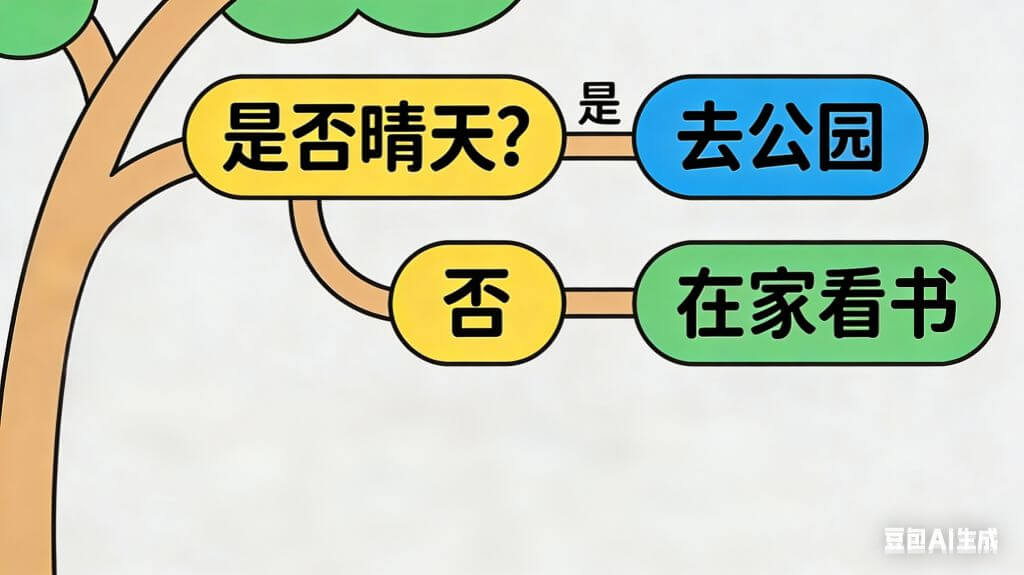
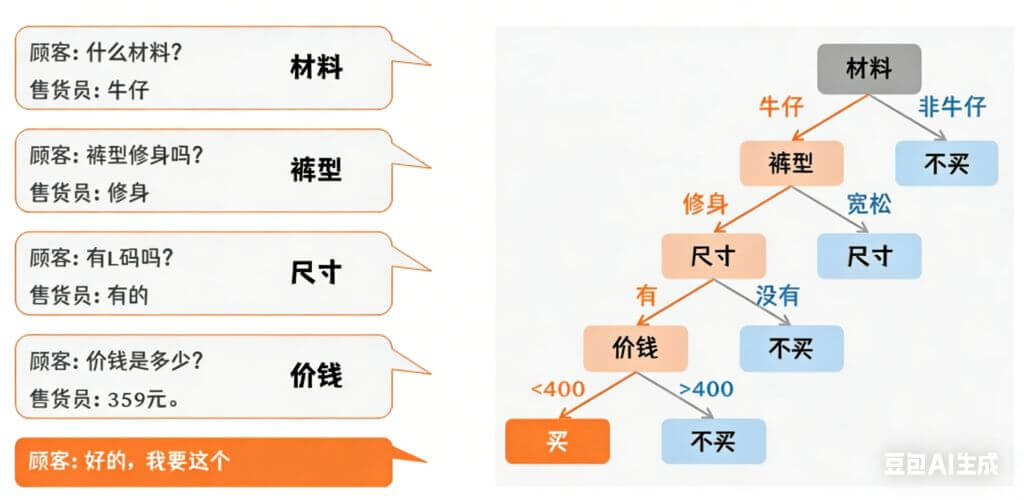
feat: 完善协同过滤算法

diff --git a/content/posts/search-advertising-recommendation/index.md b/content/posts/search-advertising-recommendation/index.md
@@ -18,7 +18,8 @@ categories:
 
 # 传统模型阶段 (2012 年前)
 ## 逻辑回归 LR（Logistic Regression）
-我们有特征 $x^(i)_j$，建立
+
+我们有特征 $x^{(i)}_j$，建立
 
 $$
 \hat{y} = \sigma(W x + b)
@@ -26,10 +27,11 @@ $$
 
 使用二分类交叉熵作为损失函数
 $$
-L = - \frac{1}{N} \sum_{i=1}{N} y_i log(\hat{y}) + (1 - y_i) log(1 - \hat{y_i})
+L = - \frac{1}{N} \sum_{i=1}^{N} y_i log(\hat{y}) + (1 - y_i) log(1 - \hat{y_i})
 $$
 
 ## FM（Factorization Machine）因子分解机
+
 在真实场景中，很多特征之间是有相关性的（比如 “男性 + 篮球鞋”），FM 在传统逻辑回归的基础上添加了**二阶交叉特征**的因子分解项。每个特征 $i$ 对应一个隐向量 $\mathbf{v}_i \in \mathbb{R}^k$（$k \ll n$）,通常 $k$ 在(8 - 64)维即可，而特征维度 $n$ 可能是(百万 ~ 亿)级别，用内积表示特征间交互强度，从而在稀疏数据下也能估计未共现的特征组合：
 
 $$
@@ -41,13 +43,53 @@ $$
 \langle \mathbf{v}_i, \mathbf{v}_j \rangle = \sum_{f=1}^{k} v_{i,f} v_{j,f}
 $$
 
-**特点**：参数量从显式二阶的 $O(n^2)$ 降为 $O(n \cdot k)$，且可线性时间计算（化简后为 $O(n \cdot k)$）。
+**特点：** 参数量从显式二阶的 $O(n^2)$ 降为 $O(n \cdot k)$，且可线性时间计算（化简后为 $O(n \cdot k)$）。
 
 ## FFM（Field-aware Factorization Machine）域感知因子机
+
 FM 中每个特征只有一个隐向量，对所有其它特征一视同仁。FFM 引入**域（Field）**：先按业务把特征划分到不同域（如用户域、物品域、上下文域），每个特征在**与不同域交互时使用不同的隐向量**。即特征 $i$ 有 $|\mathcal{F}|$ 个隐向量 $\mathbf{v}_{i,f}$（$f$ 为域编号），与特征 $j$ 交互时用 $\mathbf{v}_{i, f_j}$ 和 $\mathbf{v}_{j, f_i}$（各自在对方所属域下的向量）：
 
 $$
 \hat{y} = w_0 + \sum_{i=1}^n w_i x_i + \sum_{i=1}^{n} \sum_{j=i+1}^{n} \langle \mathbf{v}_{i, f_j}, \mathbf{v}_{j, f_i} \rangle x_i x_j
 $$
 
-**特点**：同一特征在不同域下有不同的表示，表达能力更强，适合多域异构特征；参数量约为 $O(n \cdot |\mathcal{F}| \cdot k)$，训练和推理成本更高。
+**特点：** 同一特征在不同域下有不同的表示，表达能力更强，适合多域异构特征；参数量约为 $O(n \cdot |\mathcal{F}| \cdot k)$，训练和推理成本更高。
+
+## 协同过滤算法
+{{< alert "file-lines" >}}
+通过群体智慧来预测个体喜好
+{{< /alert >}}
+
+协同过滤算法主要分为两类：
+
+- **基于物品的协同过滤算法：** 给用户推荐与他之前喜欢的物品相似的物品。
+
+- **基于用户的协同过滤算法：** 给用户推荐与他兴趣相似的用户喜欢的物品。
+
+### 基于用户的协同过滤算法
+
+我们以基于用户的协同过滤算法为例，其实就是两点：
+
+**1. 挑选出和当前用户兴趣相似的用户**
+
+我们可以通过余弦相似度计算用户间的相似度
+
+$$
+sim(\mathbf{u}, \mathbf{v}) = \frac{\mathbf{u} \cdot \mathbf{v}}{| \mathbf{u} | \times | \mathbf{v} |}
+$$
+
+**2. 计算这些用户对某个商品的喜好“分数”，加权平均**
+
+$$
+R_{u,p} = \frac{\sum sim(u, v) r(v,p)}{\sum sim(u,v)}
+$$
+
+$u$ 是目标用户，$p$ 是目标物品
+
+在实际场景中，为了进一步消除用户评分基准线不同的影响，预测公式通常会调整为：
+
+$$
+R_{u,p} = \bar{r}_u + \frac{\sum sim(u, v) (r_{v,p} - \bar{r}_v)}{\sum |sim(u, v)|}
+$$
+
+$\bar{r}_u$：目标用户 $u$ 对所有已评分物品的平均分（代表他的基础评分水平）。$r_{v,p} - \bar{r}_v$：用户 $v$ 对物品 $p$ 的评分与其自身平均分的差值（代表该物品是否超出了该用户的预期）。
